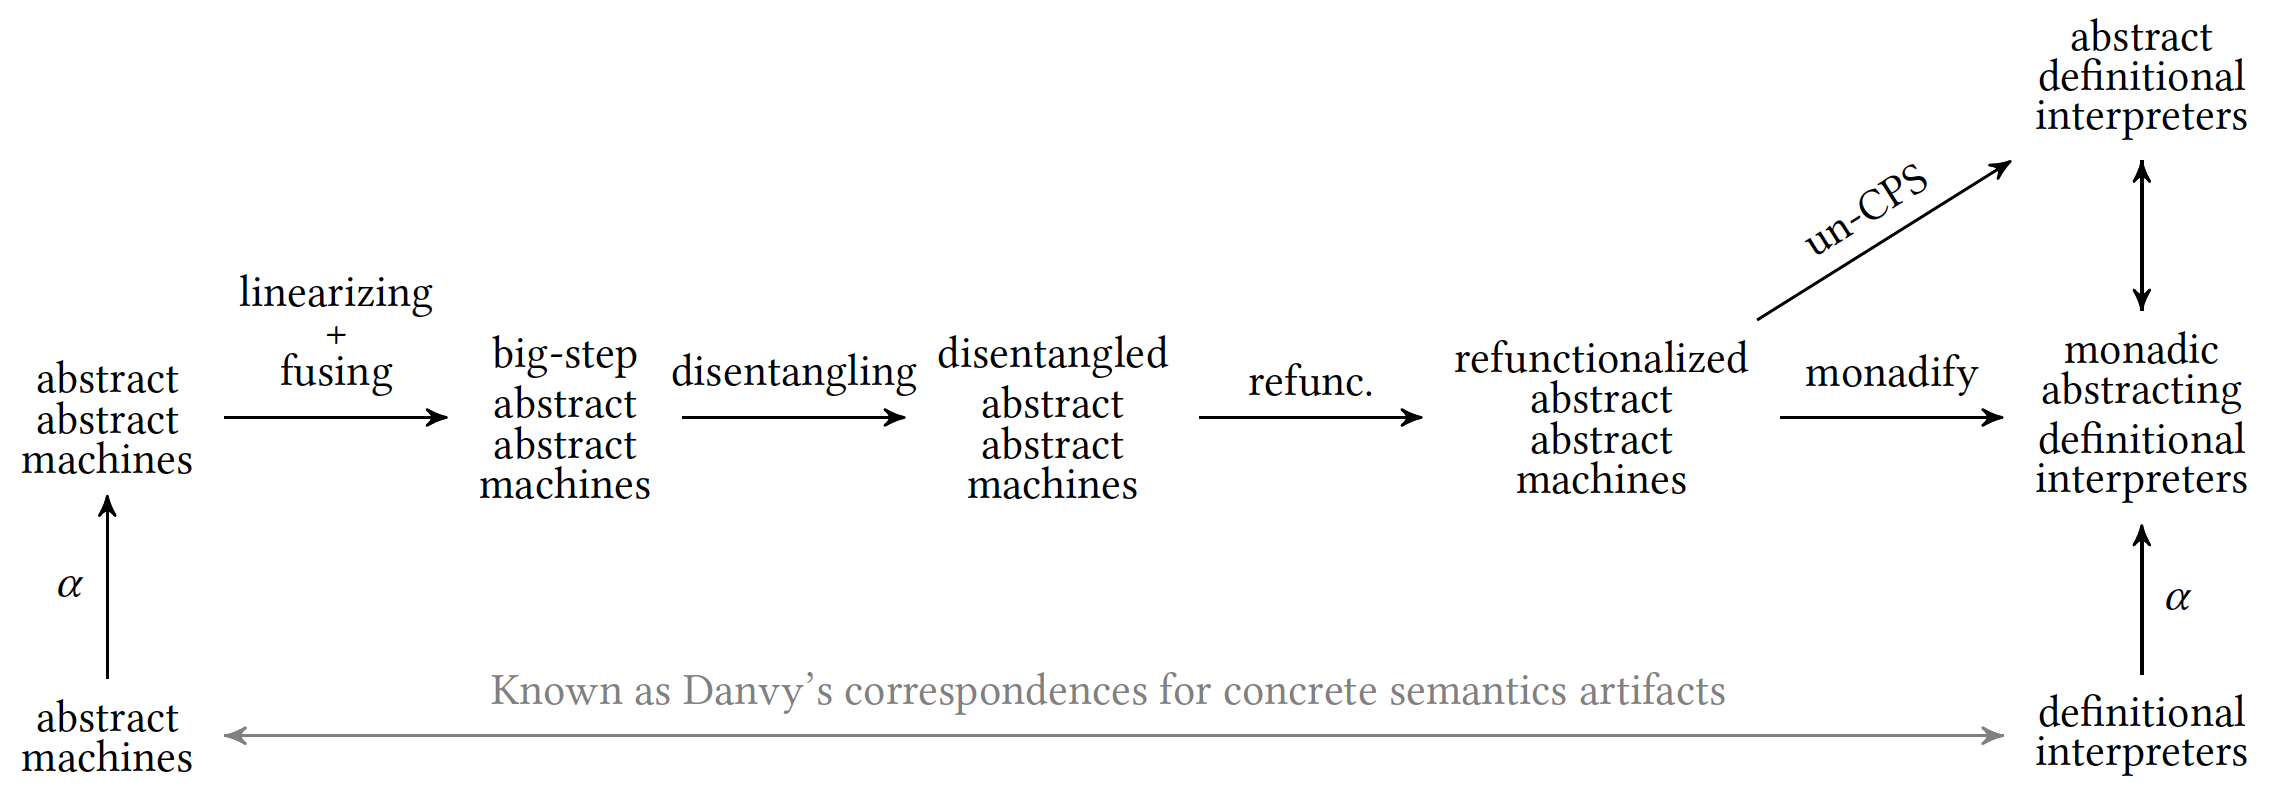
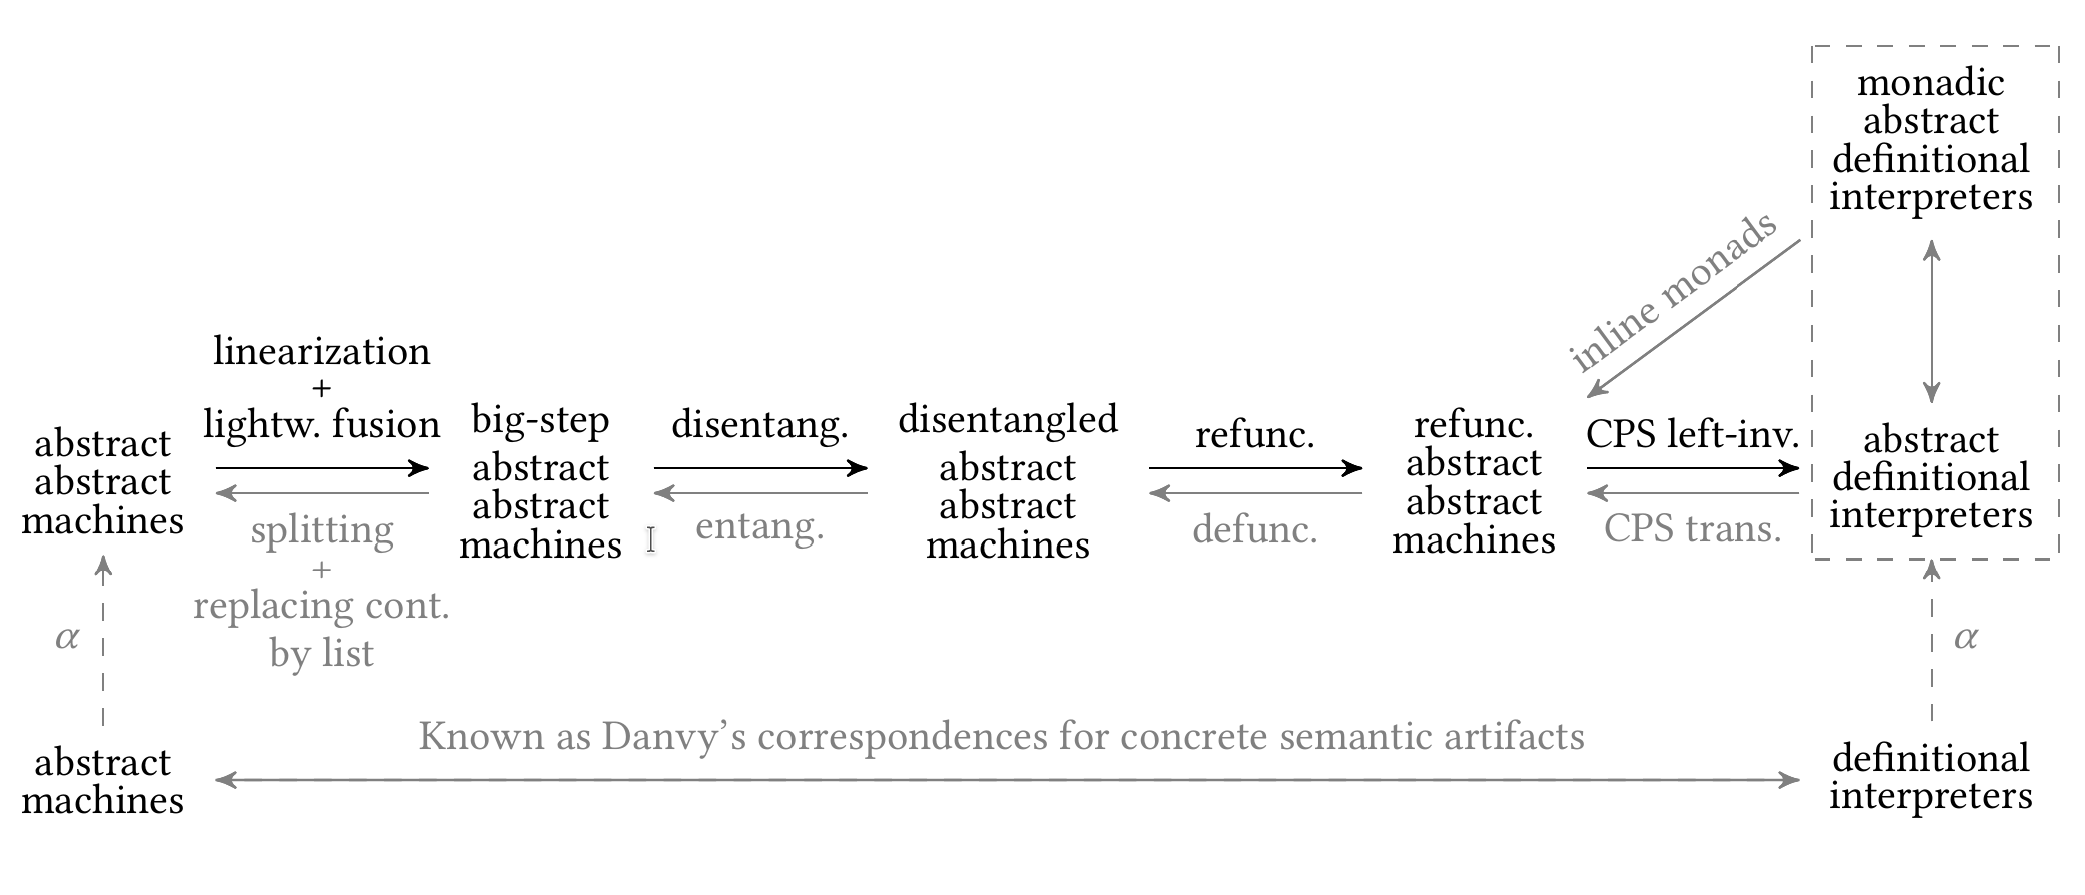
update readme

diff --git a/README.md b/README.md
@@ -6,11 +6,11 @@ Link: https://github.com/Kraks/refunc
 
 ## Abstract
 
-Abstracting abstract machines (AAM) is a systematic methodology for constructing abstract interpreters that are derived from concrete small-step abstract machines. Recent progress applies the same idea on definitional interpreters, and obtains big-step abstract definitional interpreters (ADI) written in monadic style. Yet, the relations between small-step abstracting abstract machines and big-step abstracting definitional interpreters are not well studied.
+Abstracting abstract machines is a systematic methodology for constructing sound static analyses for higher-order languages, by deriving small-step abstract abstract machines that perform abstract interpretation from abstract machines that perform concrete evaluation. Darais et al. apply the same underlying idea to monadic definitional interpreters, and obtain monadic abstract definitional interpreters that perform abstract interpretation in big-step style using monads. Yet, the relation between small-step abstract abstract machines and big-step abstract definitional interpreters is not well studied.
 
-In this paper, we show their functional correspondence and how to syntactically transform small-step abstract abstract machines into big-step abstract definitional interpreters. The transformations include linearization, fusing, disentangling, refunctionalizing, and un-CPS to direct-style with delimited controls. Linearization expresses non-deterministic choices by first-order data types, after which refunctionalization sequentializes the evaluation order by higher-order functions. All transformations properly handle the collecting semantics and the nondeterminism of abstract interpretation.
+In this paper, we explain their functional correspondence and demonstrate how to syntactically transform small-step abstract abstract machines into big-step abstract definitional interpreters. Building on known semantic interderivation techniques from the concrete evaluation setting, the transformations include linearization, lightweight fusion, disentanglement, refunctionalization, and the left inverse of the CPS transform. Linearization expresses nondeterministic choice through first-order data types, after which refunctionalization transforms the first-order data types that represent continuations into higher-order functions. The refunctionalized AAM is an abstract interpreter written in continuation-passing style (CPS) with two layers of continuations, which can be converted back to direct style with delimited control operators. Based on the known correspondence between delimited control and monads, we demonstrate that the explicit use of monads in abstract definitional interpreters is optional.
 
-Following the idea that in deterministic languages, evaluation contexts of reduction semantics are defunctionalized continuations, we further show that in nondeterministic languages, evaluation contexts are refunctionalized to extended continuations style. Remarkably, we reveal how precise call/return matching in control-flow analysis is obtained by refunctionalizing a small-step abstract abstract machine with proper caching.
+All transformations properly handle the collecting semantics and nondeterminism of abstract interpretation. Remarkably, we reveal how precise call/return matching in control-flow analysis can be obtained by refunctionalizing a small-step abstract abstract machine with proper caching.
 
 ## Getting Started
 
@@ -70,15 +70,13 @@ The disentangled AAM is implemented in `src/main/scala/refunc/DisentangledLinear
 
 #### Section 6
 
-The implementation of refunctionalized AAM is object `RefuncCPS` in `src/main/scala/refunc/RefuncCPS.scala`. In the paper, we also show a simplified version without caching, which is implemented in `src/main/scala/refunc/RefuncCPSNoCache.scala`.
+The vanilla implementation of refunctionalized AAM is object `RefuncECPS` in `src/main/scala/refunc/RefuncECPS.scala`, which only transforms the first-order data types representing continuations to higher-order functions. Section 6.2 describes a simplified refunctionalized AAM that utilizes caching and `nd` operator is implemented in `src/main/scala/refunc/RefuncCPS.scala`.
 
 Additionally, as a reference of sound pushdown control-flow analysis, AAM with P4F allocator is implemented in `src/main/scala/refunc/SmallStepP4F.scala`. We use this to further test the pushdown control-flow property of our refunctionalized AAM.
 
 #### Section 7
 
 By representing the extended continuation-passing style with delimited control operators, we implement a direct-style abstract interpreter in object `DirectStyleDC` of file `src/main/scala/refunc/DirectStyle.scala`.
-
-As we mentioned in Section 7, direct-style abstract interpreter using side effects and `for` comprehension is also feasible. We show this experimental implementation in object `DirectStyleSideEff` (also in file `DirectStyle.scala`).
 
 ### Tests
 
